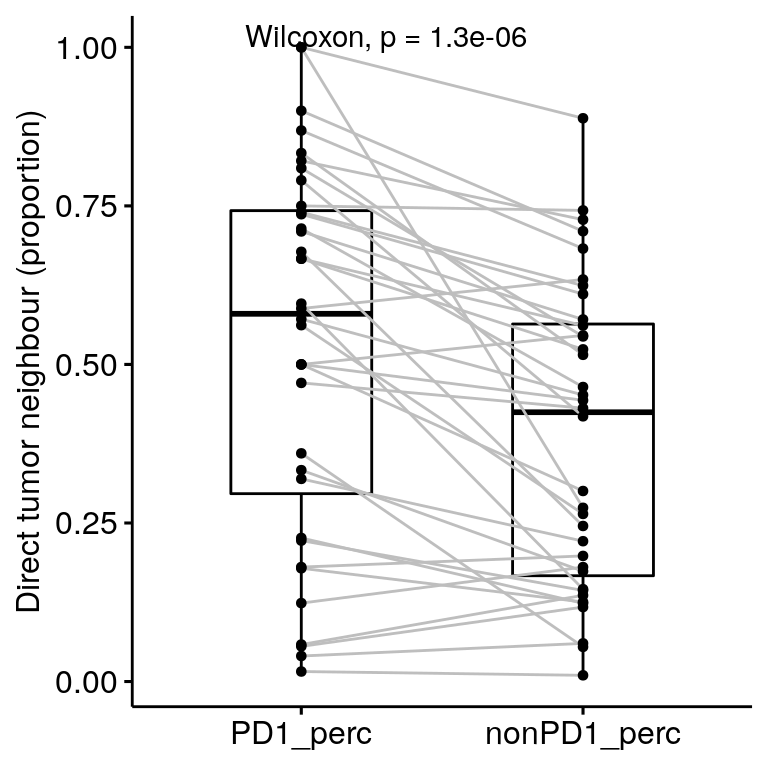
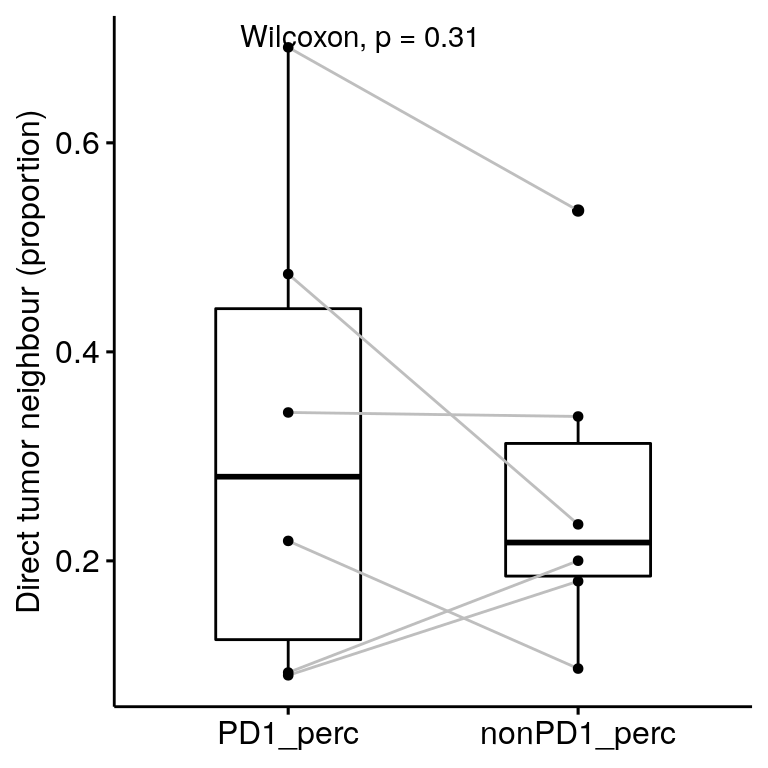
Build site.

diff --git a/docs/13_proteinPanel_neighbourhood_extended.html b/docs/13_proteinPanel_neighbourhood_extended.html
@@ -382,7 +382,7 @@ div.tocify {
 <div class="tab-content">
 <div id="summary" class="tab-pane fade in active">
 <p>
-<strong>Last updated:</strong> 2021-06-09
+<strong>Last updated:</strong> 2021-07-28
 </p>
 <p>
 <strong>Checks:</strong> <span class="glyphicon glyphicon-ok text-success" aria-hidden="true"></span> 7 <span class="glyphicon glyphicon-exclamation-sign text-danger" aria-hidden="true"></span> 0
@@ -473,16 +473,16 @@ This reproducible <a href="http://rmarkdown.rstudio.com">R Markdown</a> analysis
 <div class="panel panel-default">
 <div class="panel-heading">
 <p class="panel-title">
-<a data-toggle="collapse" data-parent="#workflowr-checks" href="#strongRepositoryversionstrongahrefhttpsgithubcomSandraTietscherBCexhIMCtree0f5d816ebbecbd10584503d32449c3434df84111targetblank0f5d816a"> <span class="glyphicon glyphicon-ok text-success" aria-hidden="true"></span> <strong>Repository version:</strong> <a href="https://github.com/SandraTietscher/BCexh_IMC/tree/0f5d816ebbecbd10584503d32449c3434df84111" target="_blank">0f5d816</a> </a>
+<a data-toggle="collapse" data-parent="#workflowr-checks" href="#strongRepositoryversionstrongahrefhttpsgithubcomSandraTietscherBCexhIMCtree081cb5263957d599c5a69e714ccbfe7059b09b88targetblank081cb52a"> <span class="glyphicon glyphicon-ok text-success" aria-hidden="true"></span> <strong>Repository version:</strong> <a href="https://github.com/SandraTietscher/BCexh_IMC/tree/081cb5263957d599c5a69e714ccbfe7059b09b88" target="_blank">081cb52</a> </a>
 </p>
 </div>
[2 lines of base64/hex data omitted]
 <div class="panel-body">
 <p>
 Great! You are using Git for version control. Tracking code development and connecting the code version to the results is critical for reproducibility.
 </p>
 <p>
-The results in this page were generated with repository version <a href="https://github.com/SandraTietscher/BCexh_IMC/tree/0f5d816ebbecbd10584503d32449c3434df84111" target="_blank">0f5d816</a>. See the <em>Past versions</em> tab to see a history of the changes made to the R Markdown and HTML files.
+The results in this page were generated with repository version <a href="https://github.com/SandraTietscher/BCexh_IMC/tree/081cb5263957d599c5a69e714ccbfe7059b09b88" target="_blank">081cb52</a>. See the <em>Past versions</em> tab to see a history of the changes made to the R Markdown and HTML files.
 </p>
 <p>
 Note that you need to be careful to ensure that all relevant files for the analysis have been committed to Git prior to generating the results (you can use <code>wflow_publish</code> or <code>wflow_git_commit</code>). workflowr only checks the R Markdown file, but you know if there are other scripts or data files that it depends on. Below is the status of the Git repository when the results were generated:
@@ -513,6 +513,7 @@ Untracked files:
     Untracked:  analysis/spicyR.Rmd
     Untracked:  barplot_tumorSubtype_image.pdf
     Untracked:  code/generate_fullSCEs_for_Zenodo.Rmd
+    Untracked:  correlation_Pericyte1_CD8ex_pearson.pdf
     Untracked:  cytokine_environment.png
     Untracked:  cytokine_exprs_TLS.pdf
     Untracked:  data/RNAseq_Tcells.rds
@@ -527,7 +528,13 @@ Untracked files:
     Untracked:  neighbourhood_myeloid_all_relative.png
     Untracked:  neighbourhood_myeloid_split_TLS.png
     Untracked:  output/ProteinPanel/
+    Untracked:  output/Protein_panel_SingleCellExperiment_object.rds
+    Untracked:  output/Protein_panel_singlecell_counts.txt
+    Untracked:  output/Protein_panel_singlecell_metadata.csv
     Untracked:  output/RNApanel/
+    Untracked:  output/RNAscope_panel_SingleCellExperiment_object.rds
+    Untracked:  output/RNAscope_panel_singlecell_counts.txt
+    Untracked:  output/RNAscope_panel_singlecell_metadata.csv
     Untracked:  output/TLS_score_25samples.png
     Untracked:  output/sce_ProteinPanel_afterQC.rds
     Untracked:  output/sce_ProteinPanel_initial.rds
@@ -582,6 +589,40 @@ Message
 </tr>
 </thead>
 <tbody>
+<tr>
+<td>
+Rmd
+</td>
+<td>
+<a href="https://github.com/SandraTietscher/BCexh_IMC/blob/081cb5263957d599c5a69e714ccbfe7059b09b88/analysis/13_proteinPanel_neighbourhood_extended.Rmd" target="_blank">081cb52</a>
+</td>
+<td>
+SandraTietscher
+</td>
+<td>
+2021-07-28
+</td>
+<td>
+Add code to determine whether migDC-neighbouring PD1high T cells are often proliferative
+</td>
+</tr>
+<tr>
+<td>
+html
+</td>
+<td>
+<a href="https://rawcdn.githack.com/SandraTietscher/BCexh_IMC/5a926f8257449fc4fd22328262728634f1256966/docs/13_proteinPanel_neighbourhood_extended.html" target="_blank">5a926f8</a>
+</td>
+<td>
+SandraTietscher
+</td>
+<td>
+2021-06-09
+</td>
+<td>
+Build site.
+</td>
+</tr>
 <tr>
 <td>
 Rmd
@@ -866,6 +907,17 @@ Date
 <tbody>
 <tr>
 <td>
+<a href="https://github.com/SandraTietscher/BCexh_IMC/blob/5a926f8257449fc4fd22328262728634f1256966/docs/figure/13_proteinPanel_neighbourhood_extended.Rmd/Tcell-tumor-interactions-1.png" target="_blank">5a926f8</a>
+</td>
+<td>
+SandraTietscher
+</td>
+<td>
+2021-06-09
+</td>
+</tr>
+<tr>
+<td>
 <a href="https://github.com/SandraTietscher/BCexh_IMC/blob/fa0fc7ee69d266b33f188ee5ce9f731057bcafc1/docs/figure/13_proteinPanel_neighbourhood_extended.Rmd/Tcell-tumor-interactions-1.png" target="_blank">fa0fc7e</a>
 </td>
 <td>
@@ -915,6 +967,17 @@ Date
 <tbody>
 <tr>
 <td>
+<a href="https://github.com/SandraTietscher/BCexh_IMC/blob/5a926f8257449fc4fd22328262728634f1256966/docs/figure/13_proteinPanel_neighbourhood_extended.Rmd/Tcell-tumor-interactions-2.png" target="_blank">5a926f8</a>
+</td>
+<td>
+SandraTietscher
+</td>
+<td>
+2021-06-09
+</td>
+</tr>
+<tr>
+<td>
 <a href="https://github.com/SandraTietscher/BCexh_IMC/blob/fa0fc7ee69d266b33f188ee5ce9f731057bcafc1/docs/figure/13_proteinPanel_neighbourhood_extended.Rmd/Tcell-tumor-interactions-2.png" target="_blank">fa0fc7e</a>
 </td>
 <td>
@@ -931,13 +994,13 @@ SandraTietscher
 </div>
 <div id="likelihood-of-pd1-high-t-cells-neighbouring-tumor-cells" class="section level1">
 <h1>Likelihood of PD1-high T cells neighbouring tumor cells</h1>
-<p>For TIG2 images only (TIG3 images often have so few PD-1 T cells that it distorts the image).</p>
+<p>For TIG2 samples only (TIG3 images often have so few PD-1 T cells that it distorts the image).</p>
 <pre class="r"><code>cur_sce &lt;- data.frame(colData(sce_protein))
 cur_sce &lt;- cur_sce[cur_sce[,&quot;sample&quot;] %in% TIG2,]
 df &lt;- data.frame(matrix(nrow=0, ncol =3))
 
-for (i in unique(cur_sce$HIER_ImageNumber)){
-  cur_sce_i &lt;- cur_sce[cur_sce[,&quot;HIER_ImageNumber&quot;] == i,]
+for (i in unique(cur_sce$sample)){
+  cur_sce_i &lt;- cur_sce[cur_sce[,&quot;sample&quot;] == i,]
   
   # get T cell IDs
   cellIDs_PD1 &lt;- cur_sce_i[cur_sce_i[,&quot;subtype&quot;] %in% c(&quot;CD4_PD1&quot;, &quot;CD8_PD1&quot;),]
@@ -996,6 +1059,17 @@ Date
 <tbody>
 <tr>
 <td>
+<a href="https://github.com/SandraTietscher/BCexh_IMC/blob/5a926f8257449fc4fd22328262728634f1256966/docs/figure/13_proteinPanel_neighbourhood_extended.Rmd/PD1-tumor-neighbourhood-1.png" target="_blank">5a926f8</a>
+</td>
+<td>
+SandraTietscher
+</td>
+<td>
+2021-06-09
+</td>
+</tr>
+<tr>
+<td>
 <a href="https://github.com/SandraTietscher/BCexh_IMC/blob/8b46e20cbb3adcbfe491fd56ddaf108f2c399171/docs/figure/13_proteinPanel_neighbourhood_extended.Rmd/PD1-tumor-neighbourhood-1.png" target="_blank">8b46e20</a>
 </td>
 <td>
@@ -1037,8 +1111,8 @@ SandraTietscher
 cur_sce &lt;- cur_sce[cur_sce[,&quot;sample&quot;] %in% TIG2,]
 df &lt;- data.frame(matrix(nrow=0, ncol =3))
 
-for (i in unique(cur_sce$HIER_ImageNumber)){
-  cur_sce_i &lt;- cur_sce[cur_sce[,&quot;HIER_ImageNumber&quot;] == i,]
+for (i in unique(cur_sce$sample)){
+  cur_sce_i &lt;- cur_sce[cur_sce[,&quot;sample&quot;] == i,]
   
   # get T cell IDs
   cellIDs_PD1 &lt;- cur_sce_i[cur_sce_i[,&quot;subtype&quot;] == &quot;CD8_PD1&quot;,]
@@ -1072,55 +1146,7 @@ df[,2:3] &lt;- df[,2:3] %&gt;% mutate_if(is.character,as.numeric)
 # Plot
 ggpaired(df, cond1 = &quot;PD1_perc&quot;, cond2 = &quot;nonPD1_perc&quot;, line.color = &quot;gray&quot;, ylab = &quot;Direct tumor neighbour (proportion)&quot;, xlab = FALSE)+
   stat_compare_means(paired = TRUE)</code></pre>
-<p><img src="figure/13_proteinPanel_neighbourhood_extended.Rmd/PD1-CD4-tumor-neighbourhood-1.png" width="672" style="display: block; margin: auto;" /></p>
-<p>
-<button type="button" class="btn btn-default btn-xs btn-workflowr btn-workflowr-fig" data-toggle="collapse" data-target="#fig-PD1-CD4-tumor-neighbourhood-1">
-Past versions of PD1-CD4-tumor-neighbourhood-1.png
-</button>
-</p>
-<div id="fig-PD1-CD4-tumor-neighbourhood-1" class="collapse">
-<div class="table-responsive">
-<table class="table table-condensed table-hover">
-<thead>
-<tr>
-<th>
-Version
-</th>
-<th>
-Author
-</th>
-<th>
-Date
-</th>
-</tr>
-</thead>
-<tbody>
-<tr>
-<td>
-<a href="https://github.com/SandraTietscher/BCexh_IMC/blob/8b46e20cbb3adcbfe491fd56ddaf108f2c399171/docs/figure/13_proteinPanel_neighbourhood_extended.Rmd/PD1-CD4-tumor-neighbourhood-1.png" target="_blank">8b46e20</a>
-</td>
-<td>
-SandraTietscher
-</td>
-<td>
-2021-04-30
-</td>
-</tr>
-<tr>
-<td>
-<a href="https://github.com/SandraTietscher/BCexh_IMC/blob/77a4593c88f2ffcdcb5e57a0caa9556c01f92149/docs/figure/13_proteinPanel_neighbourhood_extended.Rmd/PD1-CD4-tumor-neighbourhood-1.png" target="_blank">77a4593</a>
-</td>
-<td>
-SandraTietscher
-</td>
-<td>
-2021-02-15
-</td>
-</tr>
-</tbody>
-</table>
-</div>
-</div>
+<p><img src="figure/13_proteinPanel_neighbourhood_extended.Rmd/PD1-CD8-tumor-neighbourhood-1.png" width="672" style="display: block; margin: auto;" /></p>
 </div>
 </div>
 <div id="likelihood-of-pd1-high-t-cells-neighbouring-adcs" class="section level1">
@@ -1190,6 +1216,17 @@ Date
 <tbody>
 <tr>
 <td>
+<a href="https://github.com/SandraTietscher/BCexh_IMC/blob/5a926f8257449fc4fd22328262728634f1256966/docs/figure/13_proteinPanel_neighbourhood_extended.Rmd/PD1-aDC-neighbourhood-1.png" target="_blank">5a926f8</a>
+</td>
+<td>
+SandraTietscher
+</td>
+<td>
+2021-06-09
+</td>
+</tr>
+<tr>
+<td>
 <a href="https://github.com/SandraTietscher/BCexh_IMC/blob/8b46e20cbb3adcbfe491fd56ddaf108f2c399171/docs/figure/13_proteinPanel_neighbourhood_extended.Rmd/PD1-aDC-neighbourhood-1.png" target="_blank">8b46e20</a>
 </td>
 <td>
@@ -1214,6 +1251,82 @@ SandraTietscher
 </table>
 </div>
 </div>
+<p>Are PD1-high T cells that border migDCs particularly high in Ki-67?</p>
+<pre class="r"><code># Over full dataset:
+
+# Get T cell IDs
+  cellIDs_PD1 &lt;- cur_sce[cur_sce[,&quot;subtype&quot;] %in% c(&quot;CD4_PD1&quot;, &quot;CD8_PD1&quot;),]
+  PD1_shortID &lt;- paste0(cellIDs_PD1$HIER_ImageNumber, &quot;_&quot;, cellIDs_PD1$CellNumber)
+  cellIDs_nonPD1 &lt;- cur_sce[cur_sce[,&quot;subtype&quot;] %in% c(&quot;CD4&quot;, &quot;CD8&quot;, &quot;Treg&quot;),]
+  nonPD1_shortID &lt;- paste0(cellIDs_nonPD1$HIER_ImageNumber, &quot;_&quot;, cellIDs_nonPD1$CellNumber)
+  
+# Get aDC IDs
+  cellIDs_aDC &lt;- cur_sce[cur_sce[,&quot;celltype&quot;] == &quot;aDC&quot;,]
+  aDC_shortID &lt;- paste0(cellIDs_aDC$HIER_ImageNumber, &quot;_&quot;, cellIDs_aDC$CellNumber)
+  
+# Subset neighbourhood list to include only `PD1-high T cell &lt;-&gt; aDC` interactions
+  dat_relation_sub_PD1 &lt;- dat_relation %&gt;% filter((cellA %in% PD1_shortID &amp; cellB %in% aDC_shortID) | (cellB %in% PD1_shortID &amp; cellA %in% aDC_shortID))
+  # extract PD1 IDs that border aDCs
+  PD1_migDC &lt;- setdiff(unique(c(dat_relation_sub_PD1$cellA, dat_relation_sub_PD1$cellB)), aDC_shortID)
+  PD1_non_migDC &lt;- setdiff(PD1_shortID, PD1_migDC)
+  
+  # subset neighbourhood list to include only `PD1-low T cell &lt;-&gt; aDC` interactions
+  dat_relation_sub_nonPD1 &lt;- dat_relation %&gt;% filter((cellA %in% nonPD1_shortID &amp; cellB %in% aDC_shortID) | (cellB %in% nonPD1_shortID &amp; cellA %in% aDC_shortID))
+  # extract PD1 IDs that border aDCs
+  nonPD1_migDC &lt;- setdiff(unique(c(dat_relation_sub_nonPD1$cellA, dat_relation_sub_nonPD1$cellB)), aDC_shortID)
+  nonPD1_non_migDC &lt;- setdiff(nonPD1_shortID, nonPD1_migDC)
+
+  
+sce_protein$cellID &lt;- paste0(sce_protein$HIER_ImageNumber, &quot;_&quot;, sce_protein$CellNumber)
+
+## For CD4+ T cells only
+sce_T &lt;- sce_protein[,which(sce_protein$subtype %in% c(&quot;CD4&quot;, &quot;CD4_PD1&quot;))]
+sce_T$migDC_category &lt;- ifelse(sce_T$cellID %in% PD1_migDC, &quot;PD1_migDC&quot;, ifelse(sce_T$cellID %in% PD1_non_migDC, &quot;PD1_non_migDC&quot;, ifelse(sce_T$cellID %in% nonPD1_migDC, &quot;nonPD1_migDC&quot;, &quot;nonPD1_non_migDC&quot;)))
+
+dittoPlot(sce_T, &quot;Ki-67&quot;, plots = &quot;vlnplot&quot;, group.by = &quot;migDC_category&quot;, assay = &quot;scaled&quot;)</code></pre>
+<p><img src="figure/13_proteinPanel_neighbourhood_extended.Rmd/PD1-migDC-Ki67-1.png" width="576" style="display: block; margin: auto;" /></p>
+<pre class="r"><code># Define cells with Ki67 arcsinh-counts &gt; 0.5 as proliferating
+arcsinh_counts &lt;- assay(sce_T, &quot;exprs&quot;)
+sce_T$proliferating &lt;- ifelse(arcsinh_counts[&quot;Ki-67&quot;,] &gt; 0.7, &quot;yes&quot;, &quot;no&quot;)
+table(sce_T$proliferating)</code></pre>
+<pre><code>
+   no   yes 
+23245  1038 </code></pre>
+<pre class="r"><code>prolif &lt;- prop.table(table(sce_T$proliferating, sce_T$migDC_category), margin = 2)
+prolif &lt;- as.data.frame(prolif[&quot;yes&quot;,])
+colnames(prolif) &lt;- &quot;perc.proliferating&quot;
+prolif$migDC_category &lt;- rownames(prolif)
+
+ggplot(prolif, aes(migDC_category, perc.proliferating)) +
+  geom_col(position=position_dodge())+
+  theme(panel.background = element_blank(),
+        panel.border = element_rect(color = &quot;black&quot;, fill = NA, size = 1))+
+  ggtitle(&quot;CD4+ T cells (excl. Tregs)&quot;)</code></pre>
+<p><img src="figure/13_proteinPanel_neighbourhood_extended.Rmd/PD1-migDC-Ki67-2.png" width="576" style="display: block; margin: auto;" /></p>
+<pre class="r"><code>## For CD8+ T cells only
+sce_T &lt;- sce_protein[,which(sce_protein$subtype %in% c(&quot;CD8&quot;, &quot;CD8_PD1&quot;))]
+sce_T$migDC_category &lt;- ifelse(sce_T$cellID %in% PD1_migDC, &quot;PD1_migDC&quot;, ifelse(sce_T$cellID %in% PD1_non_migDC, &quot;PD1_non_migDC&quot;, ifelse(sce_T$cellID %in% nonPD1_migDC, &quot;nonPD1_migDC&quot;, &quot;nonPD1_non_migDC&quot;)))
+
+dittoPlot(sce_T, &quot;Ki-67&quot;, plots = &quot;vlnplot&quot;, group.by = &quot;migDC_category&quot;, assay = &quot;scaled&quot;)</code></pre>
+<p><img src="figure/13_proteinPanel_neighbourhood_extended.Rmd/PD1-migDC-Ki67-3.png" width="576" style="display: block; margin: auto;" /></p>
+<pre class="r"><code># Define cells with Ki67 arcsinh-counts &gt; 0.5 as proliferating
+arcsinh_counts &lt;- assay(sce_T, &quot;exprs&quot;)
+sce_T$proliferating &lt;- ifelse(arcsinh_counts[&quot;Ki-67&quot;,] &gt; 0.7, &quot;yes&quot;, &quot;no&quot;)
+table(sce_T$proliferating)</code></pre>
+<pre><code>
+   no   yes 
+19434  1198 </code></pre>
+<pre class="r"><code>prolif &lt;- prop.table(table(sce_T$proliferating, sce_T$migDC_category), margin = 2)
+prolif &lt;- as.data.frame(prolif[&quot;yes&quot;,])
+colnames(prolif) &lt;- &quot;perc.proliferating&quot;
+prolif$migDC_category &lt;- rownames(prolif)
+
+ggplot(prolif, aes(migDC_category, perc.proliferating)) +
+  geom_col(position=position_dodge())+
+  theme(panel.background = element_blank(),
+        panel.border = element_rect(color = &quot;black&quot;, fill = NA, size = 1))+
+  ggtitle(&quot;CD8+ T cells&quot;)</code></pre>
+<p><img src="figure/13_proteinPanel_neighbourhood_extended.Rmd/PD1-migDC-Ki67-4.png" width="576" style="display: block; margin: auto;" /></p>
 <p>Only for images with &gt;15 aDCs and &gt;15 PD1+ T cells.</p>
 <pre class="r"><code>cur_sce &lt;- data.frame(colData(sce_protein))
 df &lt;- data.frame(matrix(nrow=0, ncol =3))
@@ -1283,6 +1396,17 @@ Date
 </tr>
 </thead>
 <tbody>
+<tr>
+<td>
+<a href="https://github.com/SandraTietscher/BCexh_IMC/blob/5a926f8257449fc4fd22328262728634f1256966/docs/figure/13_proteinPanel_neighbourhood_extended.Rmd/PD1-aDC-neighbourhood-images-1.png" target="_blank">5a926f8</a>
+</td>
+<td>
+SandraTietscher
+</td>
+<td>
+2021-06-09
+</td>
+</tr>
 <tr>
 <td>
 <a href="https://github.com/SandraTietscher/BCexh_IMC/blob/8b46e20cbb3adcbfe491fd56ddaf108f2c399171/docs/figure/13_proteinPanel_neighbourhood_extended.Rmd/PD1-aDC-neighbourhood-images-1.png" target="_blank">8b46e20</a>
@@ -1393,6 +1517,17 @@ Date
 </tr>
 </thead>
 <tbody>
+<tr>
+<td>
+<a href="https://github.com/SandraTietscher/BCexh_IMC/blob/5a926f8257449fc4fd22328262728634f1256966/docs/figure/13_proteinPanel_neighbourhood_extended.Rmd/myeloid-suppressive-TcellSignature-2.png" target="_blank">5a926f8</a>
+</td>
+<td>
+SandraTietscher
+</td>
+<td>
+2021-06-09
+</td>
+</tr>
 <tr>
 <td>
 <a href="https://github.com/SandraTietscher/BCexh_IMC/blob/77a4593c88f2ffcdcb5e57a0caa9556c01f92149/docs/figure/13_proteinPanel_neighbourhood_extended.Rmd/myeloid-suppressive-TcellSignature-2.png" target="_blank">77a4593</a>
